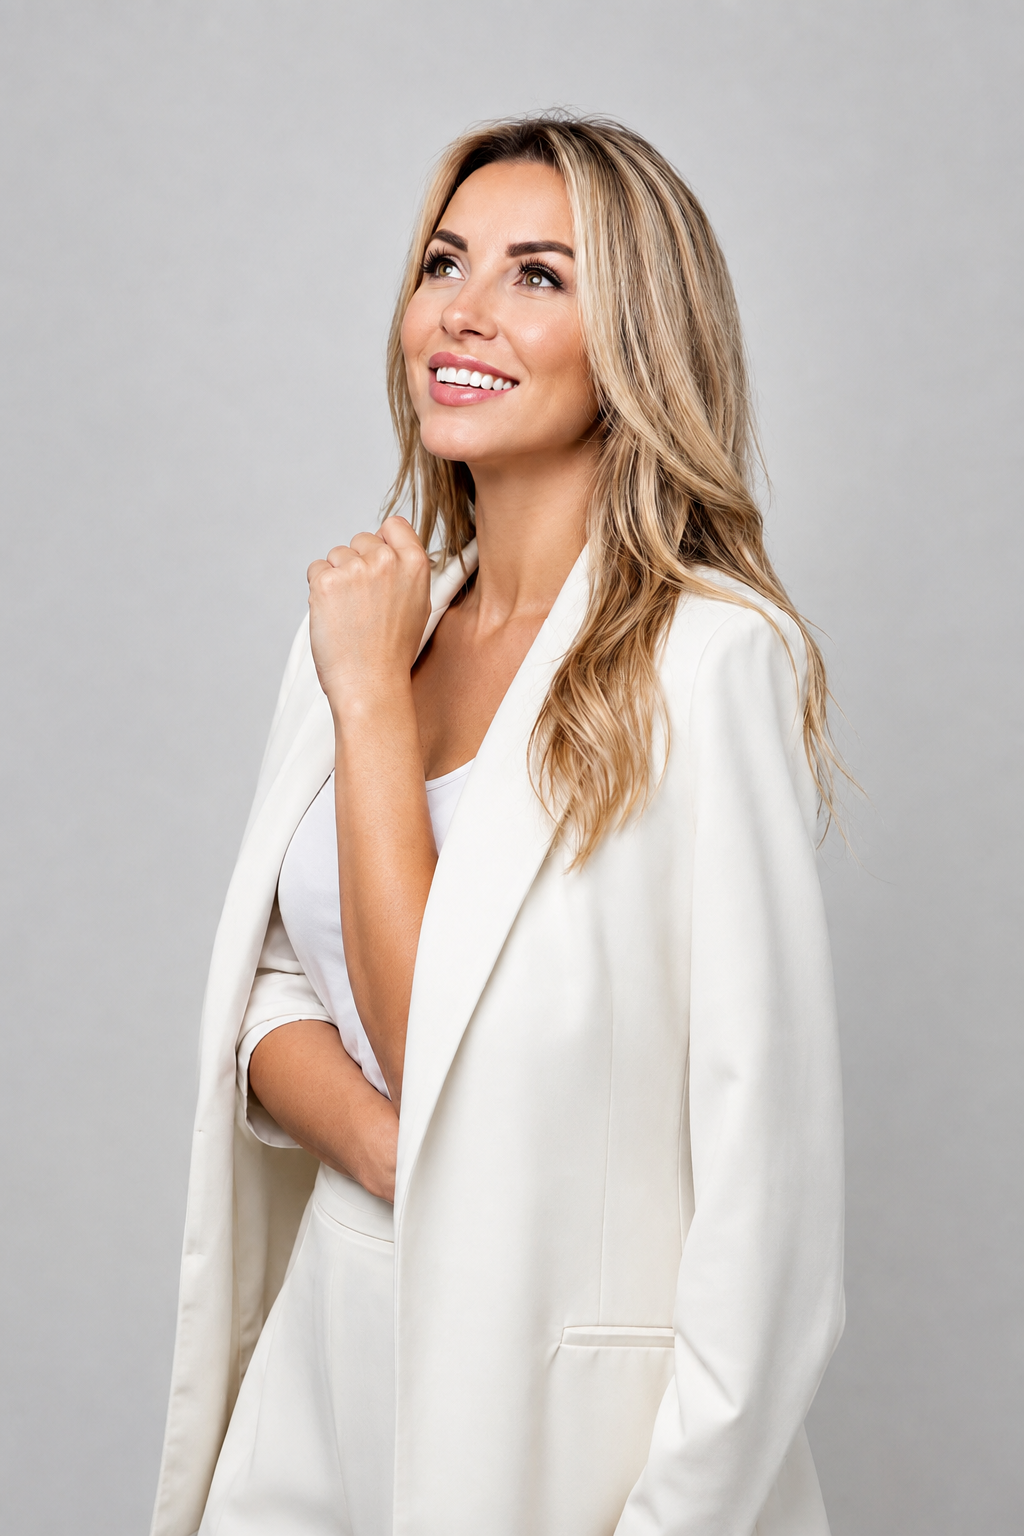
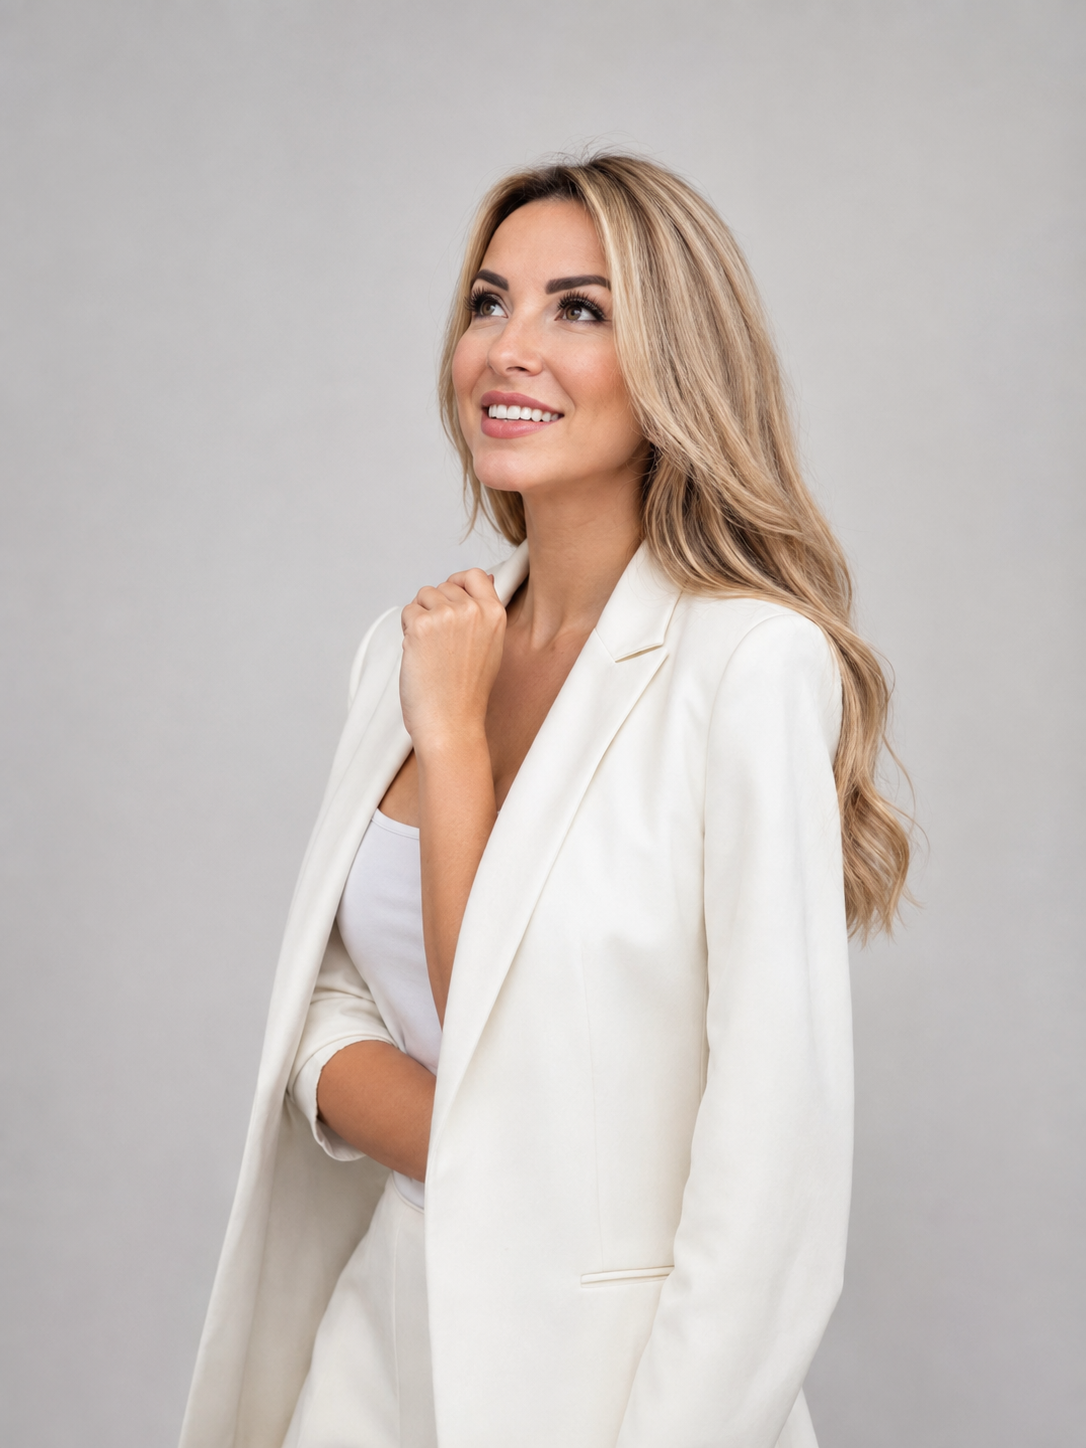
Update About page portrait

diff --git a/about/index.html b/about/index.html
@@ -1,5 +1,5 @@
 <!doctype html><html lang="ru"><head><meta charset="utf-8"><meta name="viewport" content="width=device-width,initial-scale=1"><meta name="description" content="Ольга Спектор — эксперт по исследованию коммерческих систем, автор профессионального подхода Audit Pro Lab."><link rel="canonical" href="https://auditprolab.ru/about/"><link rel="preconnect" href="https://fonts.googleapis.com"><link rel="preconnect" href="https://fonts.gstatic.com" crossorigin><link href="https://fonts.googleapis.com/css2?family=Inter:wght@400;500;600;700&amp;family=Manrope:wght@500;600;700;800&amp;family=Playfair+Display:wght@500;600;700&amp;display=swap" rel="stylesheet"><link rel="stylesheet" href="/site.css"><link rel="stylesheet" href="/theme-v2.css"><title>Ольга Спектор — об эксперте Audit Pro Lab</title></head><body class="theme-v2 about-light">
 <header class="header"><a class="brand brand--apl" href="/" aria-label="Audit Pro Lab — на главную"><span class="brand__logo" aria-hidden="true"></span></a><button class="menu" aria-expanded="false" aria-controls="nav"><span></span><span></span></button><nav id="nav"><a href="/approach/">Подход</a><a href="/research/">Исследование</a><a href="/about/" aria-current="page">Обо мне</a><a href="/blog/">Статьи</a></nav><a class="button button--small" href="/#application">Обсудить ситуацию</a></header>
 <main><section class="subhero"><div class="container"><p class="kicker">Обо мне</p><h1>Я — Ольга Спектор. <em>Исследую коммерческие системы компаний.</em></h1><p class="lead">Моя задача — установить причины, которые формируют результат продаж, и отделить факты от привычных объяснений.</p></div></section>
-<section class="content about-profile"><div class="container about-profile__grid"><figure class="about-profile__photo"><img src="/olga-about-original-quality.png" alt="Ольга Спектор" width="1024" height="1536"></figure><article class="prose about-profile__text"><h2>Профессиональная роль</h2><p>Я разбираю коммерческую систему на взаимосвязанные элементы: спрос, путь клиента, CRM, работу менеджеров, управление, контроль и экономику. Затем собираю картину обратно и показываю, какие связи действительно формируют результат.</p><h2>Почему Audit Pro Lab</h2><p>Это название подхода, который я развиваю. Его главный принцип прост: пока причина неизвестна, любое управленческое решение остаётся гипотезой.</p><h2>За что я отвечаю лично</h2><ul><li>за логику исследования;</li><li>за проверку версий;</li><li>за профессиональные выводы;</li><li>за ясное объяснение причин собственнику.</li></ul><blockquote>Понимание причин позволяет управлять результатом.</blockquote><a class="button about-profile__button" href="/#application">Связаться со мной</a></article></div></section></main>
+<section class="content about-profile"><div class="container about-profile__grid"><figure class="about-profile__photo"><img src="/olga-about-original-quality.png" alt="Ольга Спектор" width="1086" height="1448"></figure><article class="prose about-profile__text"><h2>Профессиональная роль</h2><p>Я разбираю коммерческую систему на взаимосвязанные элементы: спрос, путь клиента, CRM, работу менеджеров, управление, контроль и экономику. Затем собираю картину обратно и показываю, какие связи действительно формируют результат.</p><h2>Почему Audit Pro Lab</h2><p>Это название подхода, который я развиваю. Его главный принцип прост: пока причина неизвестна, любое управленческое решение остаётся гипотезой.</p><h2>За что я отвечаю лично</h2><ul><li>за логику исследования;</li><li>за проверку версий;</li><li>за профессиональные выводы;</li><li>за ясное объяснение причин собственнику.</li></ul><blockquote>Понимание причин позволяет управлять результатом.</blockquote><a class="button about-profile__button" href="/#application">Связаться со мной</a></article></div></section></main>
 <footer class="footer"><div class="container"><div><strong>Ольга Спектор · Audit Pro Lab</strong></div><nav><a href="/privacy.html">Конфиденциальность</a><a href="https://t.me/olga_auditpro">Telegram</a></nav><p>© 2026</p></div></footer><script src="/site.js"></script></body></html>
